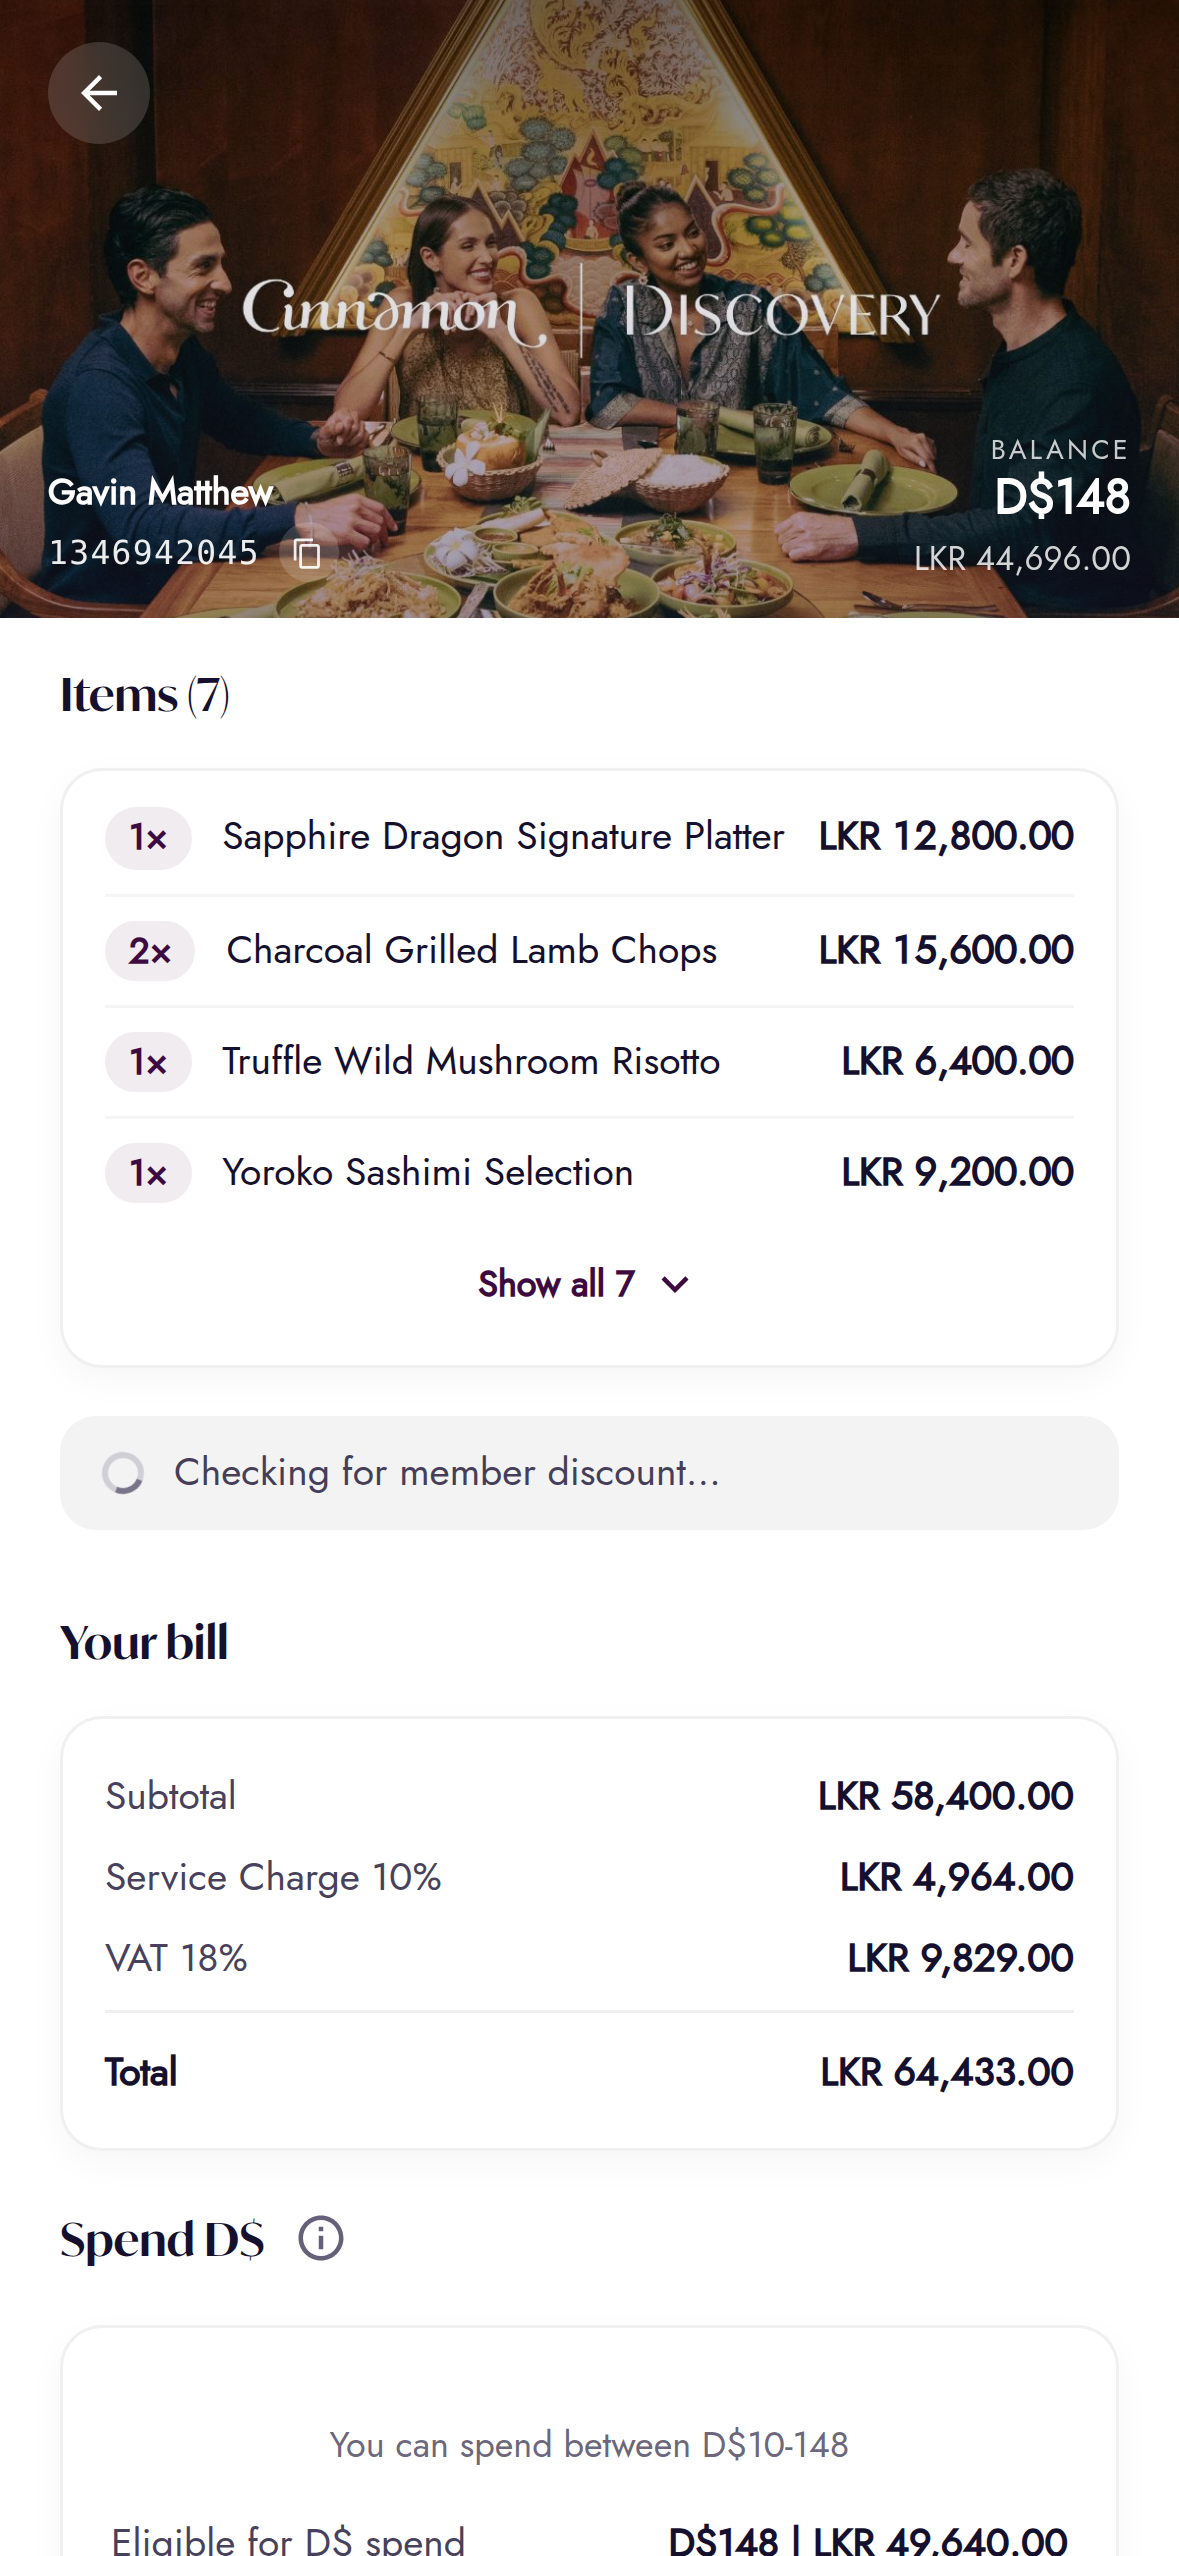
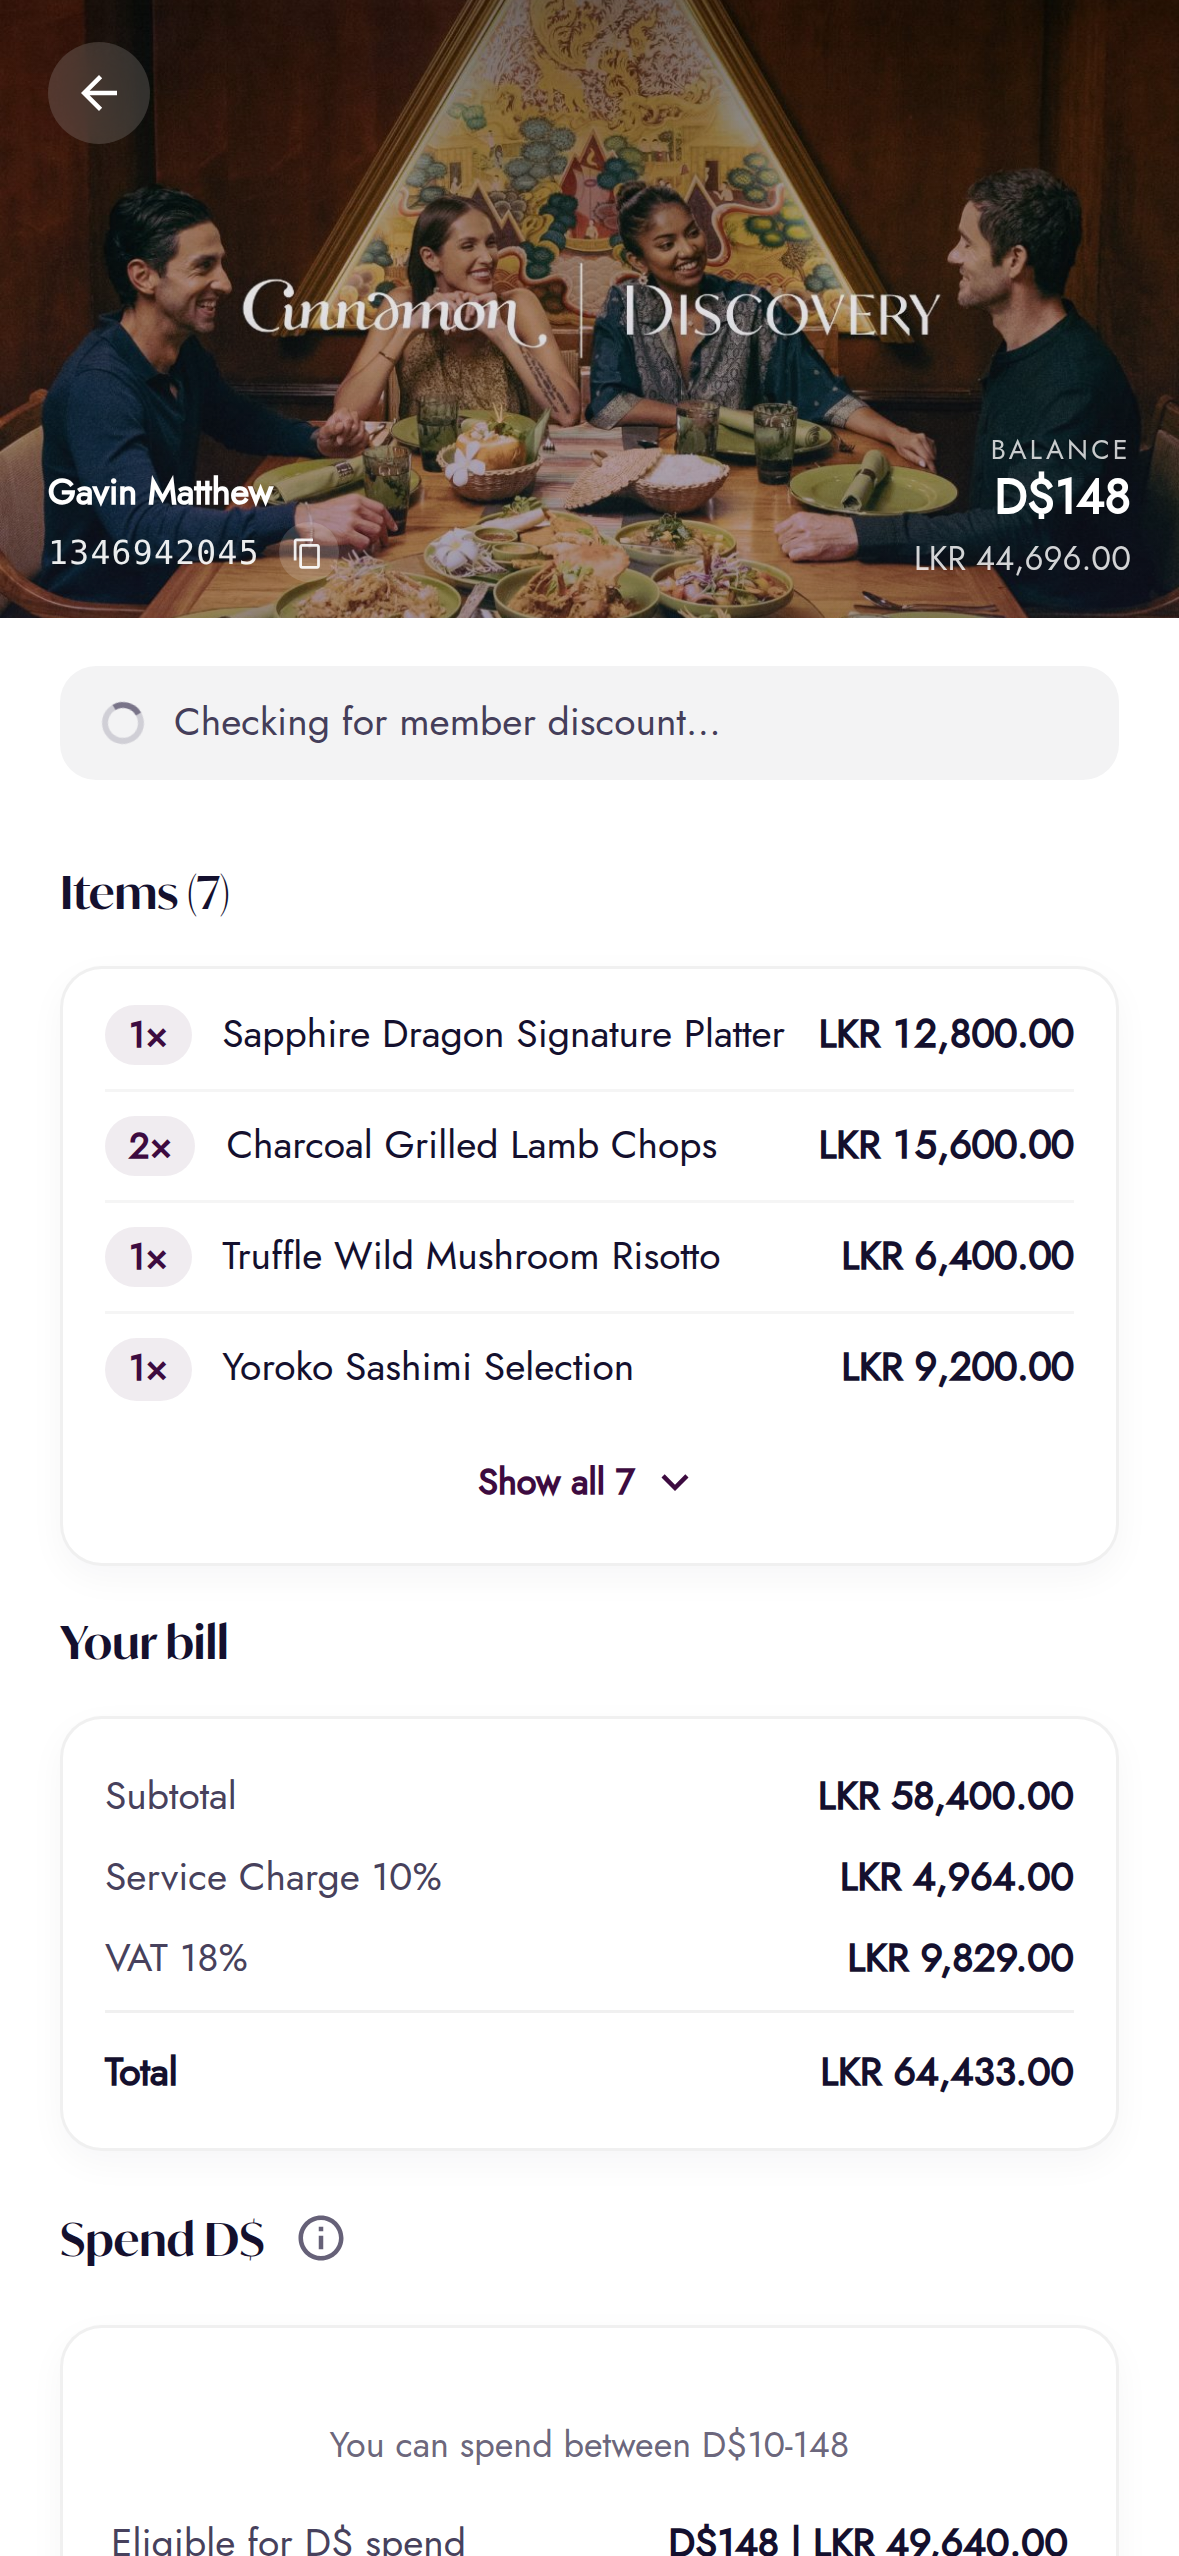
Show the error before the bill, and let the page flow after Retry
The captured app screens put the discount error (and the checking state) at
the top, above the items. The caption no longer describes the position. After
Retry the screen is rebuilt in layers: the error card gives way to Checking,
and the page below flows up on a spring, then the discount lands.

Claude-Session: https://claude.ai/code/session_01NEoh1pDRx1Umz5QkgQiwNZ

diff --git a/video/explainer.html b/video/explainer.html
@@ -29,6 +29,7 @@ html,body{width:var(--W);height:var(--H);overflow:hidden;background:var(--bg)}
   box-shadow:0 40px 80px rgba(20,16,46,.18),0 0 0 2px #3a3a3c inset}
 #screen{position:relative;width:393px;height:852px;border-radius:54px;overflow:hidden;background:#fafafa}
 #screen img{position:absolute;inset:0;width:393px;height:852px}
+#screen .lay{position:absolute;left:0;top:0;width:393px;height:852px;background-size:393px 852px;display:none;will-change:auto}
 #island{position:absolute;left:50%;top:22px;width:118px;height:34px;margin-left:-59px;background:#000;border-radius:20px;z-index:5}
 .hl{position:absolute;border-radius:6px;z-index:4}
 #ripple{position:absolute;border-radius:50%;background:rgba(255,255,255,.55);z-index:6;width:10px;height:10px}
@@ -78,8 +79,11 @@ html,body{width:var(--W);height:var(--H);overflow:hidden;background:var(--bg)}
   <!-- phone -->
   <div id="phone" class="abs"><div id="screen">
     <img id="imFailed" src="assets/screen-failed.png">
-    <img id="imChecking" src="assets/screen-checking.png" style="opacity:0">
-    <img id="imOk" src="assets/screen-ok.png" style="opacity:0">
+    <!-- after Retry: the screen is rebuilt in layers so the card collapses and the page flows up -->
+    <div id="cardF" class="lay" style="background-image:url(assets/screen-failed.png);clip-path:inset(222px 0 454px 0)"></div>
+    <div id="cardC" class="lay" style="background-image:url(assets/screen-checking.png);clip-path:inset(222px 0 592px 0)"></div>
+    <div id="lowF" class="lay" style="background-image:url(assets/screen-failed.png);clip-path:inset(410px 0 0 0)"></div>
+    <div id="lowOk" class="lay" style="background-image:url(assets/screen-ok.png);clip-path:inset(207px 0 0 0)"></div>
     <div id="island"></div>
     <div id="hlReason" class="hl" style="background:rgba(88,44,131,.16);box-shadow:0 0 0 1.5px rgba(88,44,131,.55)"></div>
     <div id="hlDisc" class="hl" style="background:rgba(28,140,78,.13);box-shadow:0 0 0 1.5px rgba(28,140,78,.7)"></div>
@@ -87,7 +91,7 @@ html,body{width:var(--W);height:var(--H);overflow:hidden;background:var(--bg)}
   </div></div>
   <div id="band" class="abs"></div>
 
-  <div id="c1" class="abs center" style="top:150px"><div class="h mid">Where the guest sees it.</div><div class="sub" style="margin-top:18px">On their phone, just under the bill items.</div></div>
+  <div id="c1" class="abs center" style="top:150px"><div class="h mid">On the guest’s phone.</div></div>
   <div id="c2" class="abs center" style="top:150px"><div class="h mid">The bill is still open<br>on a POS terminal.</div><div class="sub" style="margin-top:18px">While it is open, the discount can’t be added.</div></div>
 
   <!-- step 1: the POS -->
@@ -254,7 +258,7 @@ document.getElementById('home').innerHTML = buildHome();
    carry momentum and settle, some with a touch of overshoot), exits accelerate
    away, camera moves are critically damped, and scene changes overlap so there
    is never an empty frame between them. */
-const R = {"failed":{"card":{"x":20,"y":472.06,"w":353,"h":174.8},"reason":{"x":37,"y":517.06,"w":319,"h":16.8},"retry":{"x":37,"y":588.86,"w":319,"h":41}},"ok":{"discountRow":{"x":35,"y":550.06,"w":323,"h":19}}};
+const R = {"failed":{"card":{"x":20,"y":222.31,"w":353,"h":174.8},"reason":{"x":37,"y":267.31,"w":319,"h":16.8},"retry":{"x":37,"y":339.11,"w":319,"h":41}},"ok":{"discountRow":{"x":35,"y":550.06,"w":323,"h":19}}};
 const $ = (id) => document.getElementById(id);
 const clamp = (x) => Math.max(0, Math.min(1, x));
 const seg = (t, a, b) => clamp((t - a) / (b - a));
@@ -327,17 +331,28 @@ function render(tr) {
   else if (t < 10.5) { C = mix(FULL, ZOOM, cam1(t, 5.5, 1.7)); po = 1; }
   else if (t < 14.9) { const x = seg(t, 10.55, 11.35); C = mix(ZOOM, drift(ZOOM), eIn(x)); po = 1 - eIO(x); }
   else if (t < 18.6) { C = mix(ZOOM2_LOW, ZOOM2, spring(t, 14.9, 1.5, .82)); po = eOut(seg(t, 14.9, 15.45)); }
-  else if (t < 22.2) { C = mix(ZOOM2, BILL, cam1(t, 18.6, 1.5)); po = 1; }
+  else if (t < 22.2) { C = mix(ZOOM2, BILL, cam1(t, 18.55, 1.5)); po = 1; }
   else { const x = seg(t, 22.2, 23.0); C = mix(BILL, drift(BILL), eIn(x)); po = 1 - eIO(x); }
   const Tp = place(C);
   $('phone').style.transform = `translate3d(${Tp.tx.toFixed(3)}px,${Tp.ty.toFixed(3)}px,0) scale(${Tp.s.toFixed(5)})`;
   $('phone').style.opacity = po.toFixed(4);
   $('phone').style.display = po <= 0 || Tp.ty > 1440 ? 'none' : 'block';
 
-  const toChecking = eIO(seg(t, 17.45, 17.8)), toOk = eIO(seg(t, 18.3, 18.8));
-  $('imChecking').style.opacity = t < 15 ? 0 : toChecking * (1 - toOk);
-  $('imOk').style.opacity = t < 15 ? 0 : toOk;
-  $('imFailed').style.opacity = t < 15 ? 1 : 1 - toChecking;
+  // after Retry the error card gives way to "Checking…", then that clears and the discount lands;
+  // the page below the card flows up on a spring each time (offsets from the captured layouts)
+  const DF = 202.8, DC = 65.55, layered = t >= 17.4;
+  let D = DF;
+  if (t >= 17.45) D = lerp(DF, DC, spring(t, 17.45, .75, .86));
+  if (t >= 18.3) D = lerp(DC, 0, spring(t, 18.3, .85, .86));
+  const okIn = eIO(seg(t, 18.35, 18.7));
+  $('imFailed').style.clipPath = layered ? 'inset(0 0 630px 0)' : 'none';
+  for (const id of ['cardF', 'cardC', 'lowF', 'lowOk']) $(id).style.display = layered ? 'block' : 'none';
+  $('cardF').style.opacity = (1 - eIO(seg(t, 17.45, 17.62))).toFixed(4);
+  $('cardC').style.opacity = (eOut(seg(t, 17.55, 17.8)) * (1 - eIO(seg(t, 18.22, 18.42)))).toFixed(4);
+  $('lowF').style.transform = `translateY(${(D - DF).toFixed(3)}px)`;
+  $('lowF').style.opacity = (1 - okIn).toFixed(4);
+  $('lowOk').style.transform = `translateY(${D.toFixed(3)}px)`;
+  $('lowOk').style.opacity = okIn.toFixed(4);
 
   // the reason line is swept with a highlight
   const r = R.failed.reason, hk = clamp(spring(t, 7.3, .8, 1, 8));
